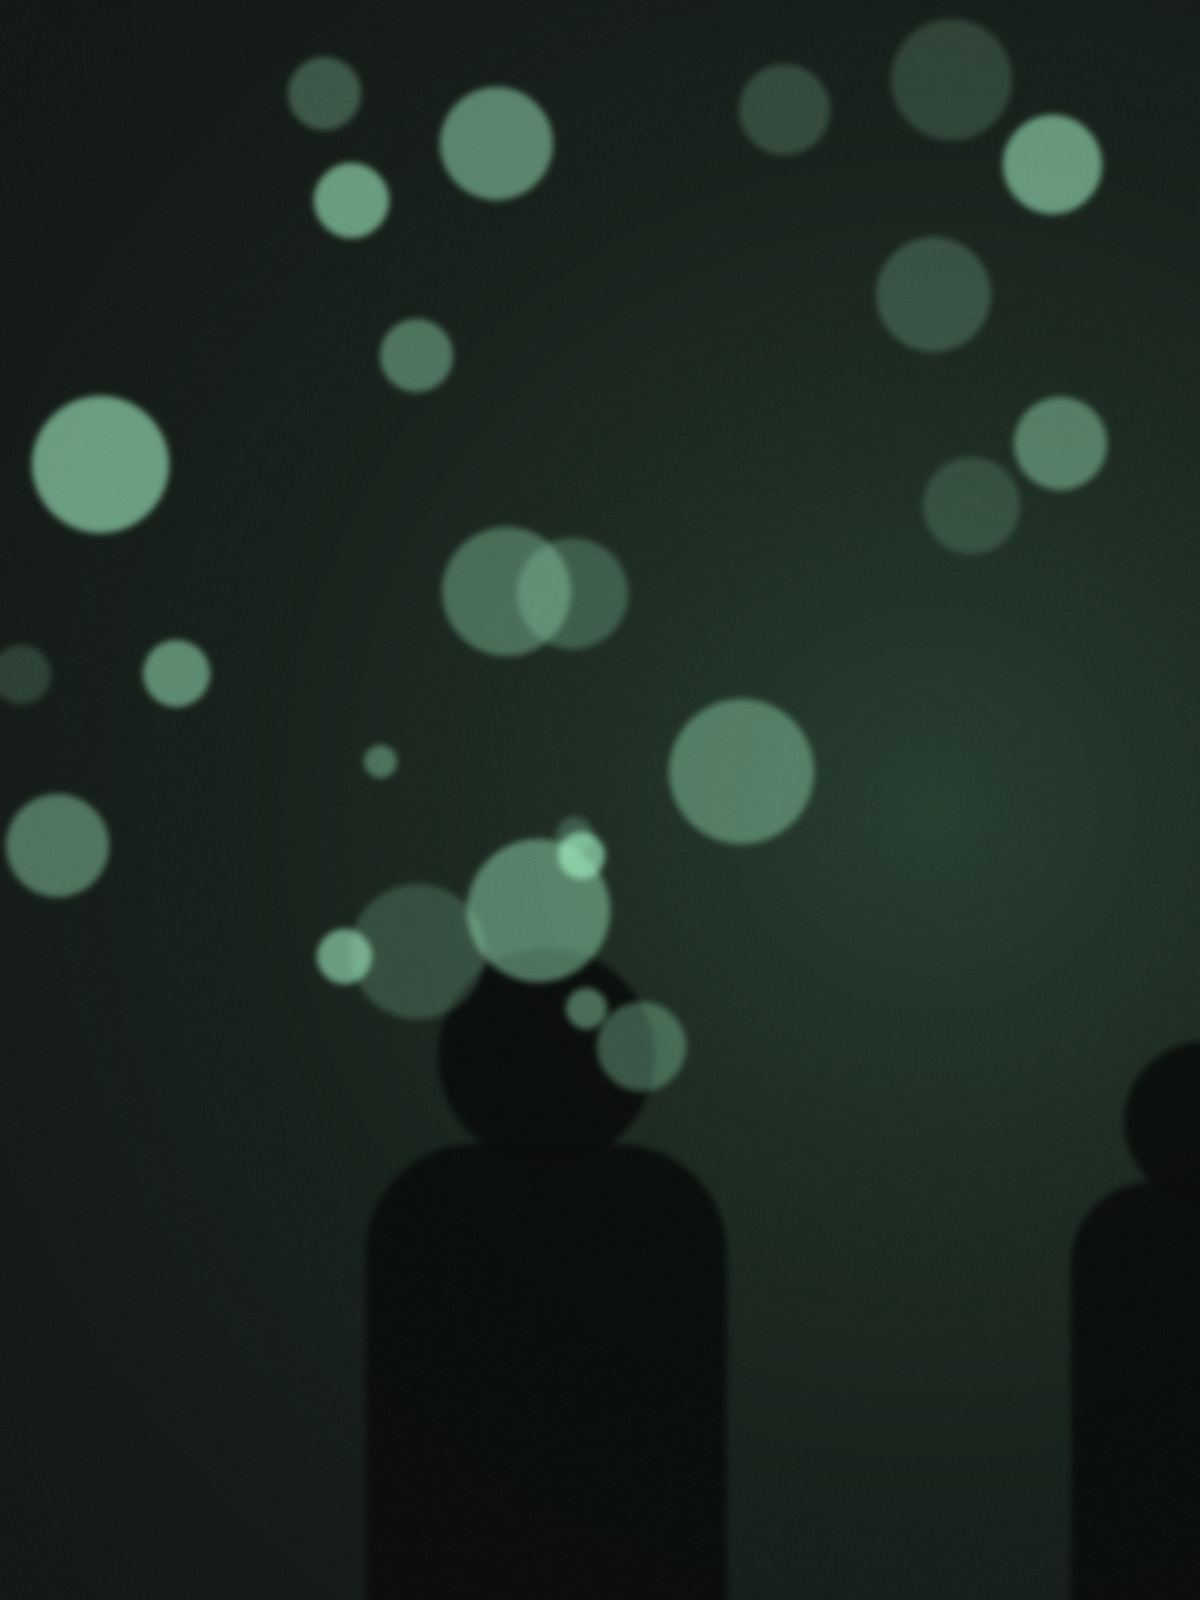
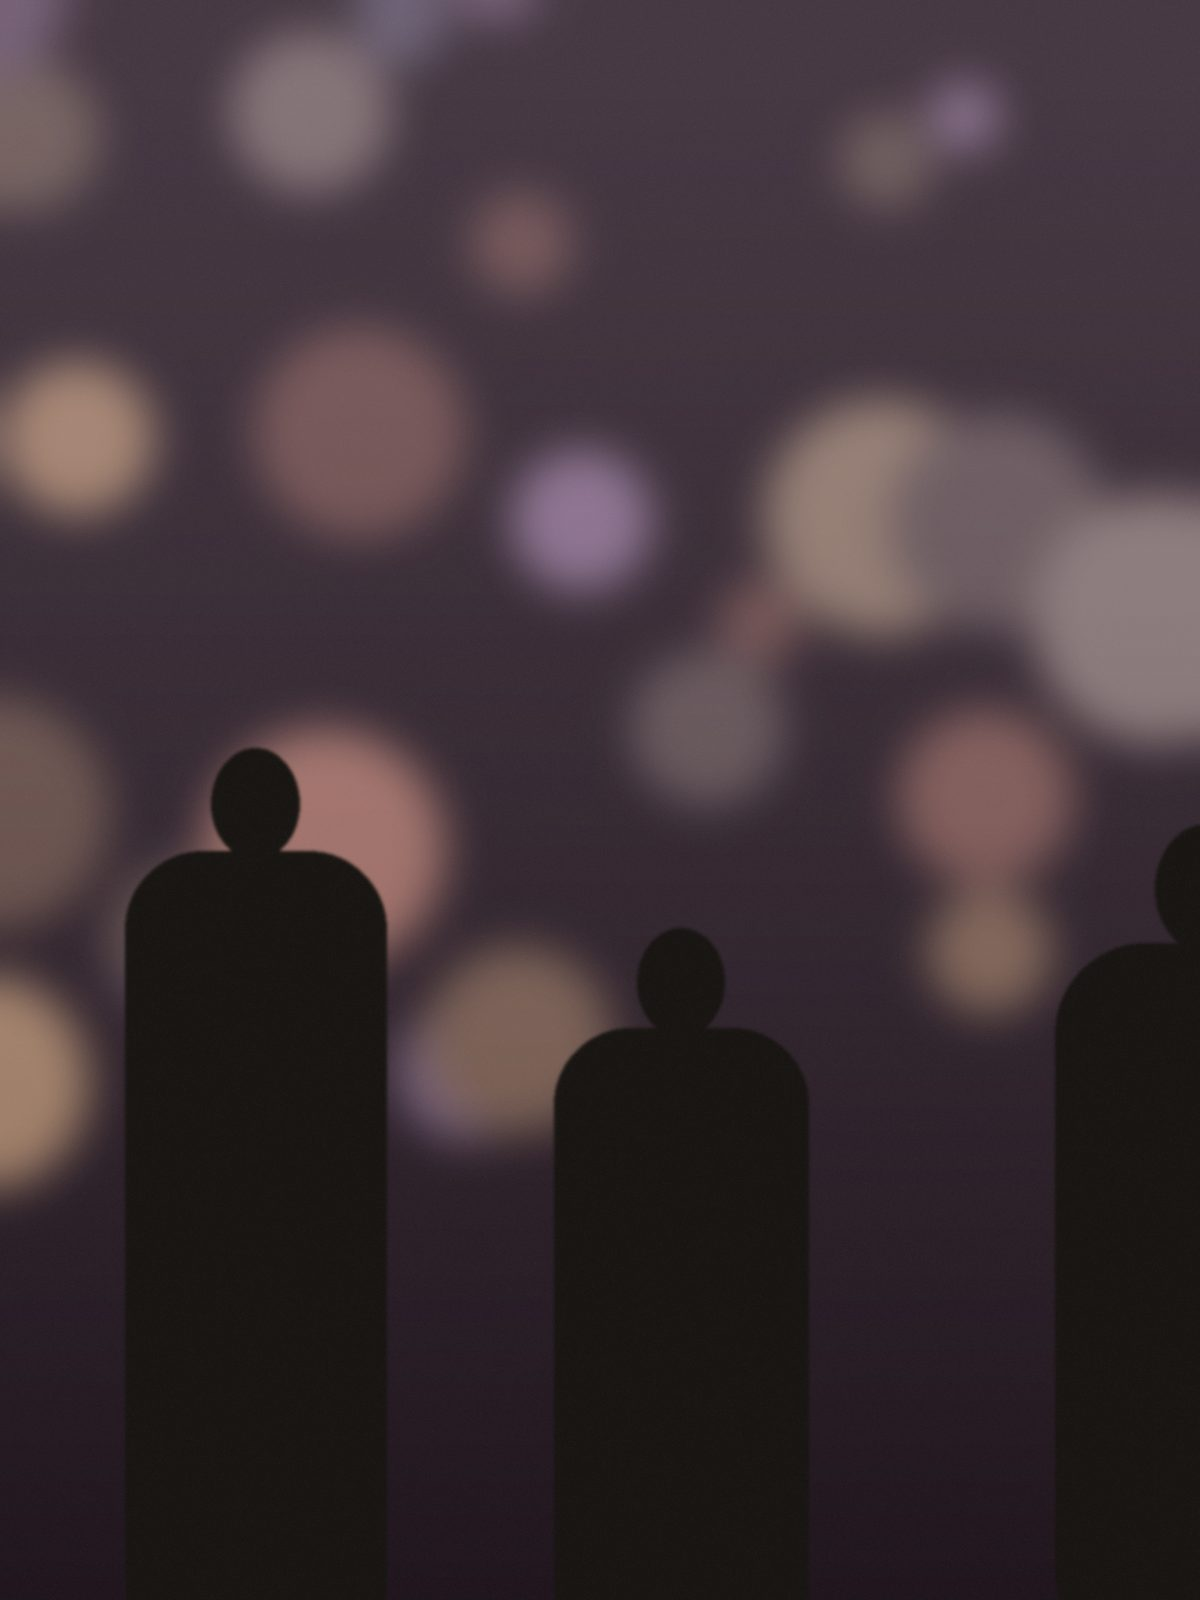
fix(hote) : carte de soiree, accords, et jeu d essai lisible
La bande de couleur de la carte faisait six pixels de haut contre un rayon
de vingt-quatre : elle ne pouvait pas epouser la courbe et se detachait en
pastille flottante au-dessus du cadre. La teinte de la soiree passe en
pastille devant son nom, ou la geometrie ne pose plus de question.

« 1 invités » et « 1 photos » s ecrivaient sans accord.

Les vingt-quatre photographies du jeu d essai etaient trop sombres : dans
une interface elle-meme sombre, elles se confondaient avec leur fond et
l ecran de tri paraissait vide alors qu il les affichait bien. Elles sont
regenerees sur une plage de luminosite etalee, des scenes tamisees aux
scenes au flash, par un script desormais versionne — le depot ne portait
que les binaires, sans le moyen de les reproduire.

diff --git a/apps/web/src/features/host/screens/EventListScreen.tsx b/apps/web/src/features/host/screens/EventListScreen.tsx
@@ -64,11 +64,20 @@ export function EventListScreen() {
                   className="w-full overflow-hidden rounded-3xl border border-white/10
                     bg-white/4 text-left transition active:bg-white/8"
                 >
-                  {/* Bande de couleur : la teinte choisie par l'hote sert de
-                      reperage entre plusieurs soirees. */}
-                  <div className="h-1.5" style={{ background: event.color }} />
                   <div className="px-4 py-3.5">
-                    <p className="text-[15px] font-extrabold tracking-tight">{event.name}</p>
+                    {/* La teinte choisie par l'hote sert de reperage entre
+                        plusieurs soirees. Elle etait posee en bande de six
+                        pixels en haut de la carte : une bande aussi fine ne
+                        peut pas epouser un rayon de vingt-quatre, et se
+                        detachait en pastille flottante au-dessus du cadre. */}
+                    <p className="flex items-center gap-2 text-[15px] font-extrabold tracking-tight">
+                      <span
+                        aria-hidden="true"
+                        className="size-2.5 shrink-0 rounded-full"
+                        style={{ background: event.color }}
+                      />
+                      {event.name}
+                    </p>
                     <p className="mt-1.5 flex items-center gap-2 text-xs text-white/45">
                       {dateFr(event.eventDate)}
                       <span className={`rounded-full px-2 py-0.5 font-bold ${badge.tone}`}>
@@ -77,7 +86,9 @@ export function EventListScreen() {
                     </p>
                     {event._count && (
                       <p className="mt-1 text-xs text-white/35">
-                        {event._count.rolls} invités · {event._count.photos} photos
+                        {event._count.rolls} invité{event._count.rolls > 1 ? 's' : ''}
+                        {' · '}
+                        {event._count.photos} photo{event._count.photos > 1 ? 's' : ''}
                       </p>
                     )}
                   </div>

diff --git a/apps/api/scripts/photos-demo.py b/apps/api/scripts/photos-demo.py
@@ -1,0 +1,126 @@
+#!/usr/bin/env python3
+"""Produit les photographies de demonstration du jeu d'essai.
+
+Ces images alimentent le seed et la repetition generale. Elles sont
+synthetiques et non photographiees : aucun visage reel, aucune licence, et
+le depot ne porte que des fichiers qu'il sait reproduire.
+
+Le premier jeu etait trop sombre. Dans une interface elle-meme sombre, une
+vignette a dominante brune se confond avec son fond : l'ecran de tri
+paraissait vide alors qu'il affichait bien les photographies. La luminosite
+est donc etalee volontairement, des scenes tamisees aux scenes au flash.
+
+Usage : python3 apps/api/scripts/photos-demo.py
+"""
+
+import math
+import random
+from pathlib import Path
+
+from PIL import Image, ImageDraw, ImageFilter
+
+SORTIE = Path(__file__).resolve().parent.parent / 'prisma' / 'photos'
+COMBIEN = 24
+LARGEUR, HAUTEUR = 1200, 1600
+
+# Ambiances d'une soiree. Le troisieme nombre est la luminosite visee, de la
+# piste de danse a peine eclairee au flash direct.
+AMBIANCES = [
+    ('tamise',   (74, 52, 30),   0.42),
+    ('bougies',  (96, 64, 32),   0.55),
+    ('dorée',    (122, 86, 40),  0.68),
+    ('flash',    (168, 150, 128), 0.88),
+    ('piste',    (52, 46, 88),   0.50),
+    ('néons',    (96, 52, 86),   0.62),
+]
+
+LUMIERES = [
+    (255, 226, 170), (255, 208, 140), (255, 240, 214),
+    (198, 214, 255), (255, 176, 138), (236, 200, 255),
+]
+
+
+def melange(a, b, t):
+    return tuple(round(x + (y - x) * t) for x, y in zip(a, b))
+
+
+def fond(image, base, clarte):
+    """Degrade radial : la source lumineuse est hors champ, en haut."""
+    dessin = ImageDraw.Draw(image)
+    haut = melange(base, (255, 255, 255), clarte * 0.45)
+    bas = melange(base, (0, 0, 0), 0.45)
+    for y in range(HAUTEUR):
+        t = (y / HAUTEUR) ** 1.25
+        dessin.line([(0, y), (LARGEUR, y)], fill=melange(haut, bas, t))
+
+
+def bokeh(image, clarte, alea):
+    """Cercles flous : ce que devient une guirlande hors de la mise au point."""
+    calque = Image.new('RGB', (LARGEUR, HAUTEUR), (0, 0, 0))
+    dessin = ImageDraw.Draw(calque)
+    for _ in range(alea.randint(16, 30)):
+        r = alea.randint(26, 130)
+        x = alea.randint(-r, LARGEUR + r)
+        y = alea.randint(-r, int(HAUTEUR * 0.72))
+        ton = alea.choice(LUMIERES)
+        force = alea.uniform(0.35, 1.0) * (0.55 + clarte * 0.6)
+        dessin.ellipse([x - r, y - r, x + r, y + r],
+                       fill=melange((0, 0, 0), ton, min(force, 1.0)))
+    calque = calque.filter(ImageFilter.GaussianBlur(alea.randint(10, 26)))
+    return Image.blend(image, Image.blend(image, calque, 0.62), 0.85)
+
+
+def silhouettes(image, alea):
+    """Deux ou trois personnes de dos, au premier plan, en contre-jour."""
+    dessin = ImageDraw.Draw(image)
+    for _ in range(alea.randint(2, 3)):
+        largeur = alea.randint(230, 400)
+        x = alea.randint(-120, LARGEUR - 120)
+        y = alea.randint(int(HAUTEUR * 0.52), int(HAUTEUR * 0.72))
+        tete = largeur * 0.34
+        # Le corps, en capsule.
+        dessin.rounded_rectangle(
+            [x, y, x + largeur, HAUTEUR + 60],
+            radius=int(largeur * 0.3), fill=(16, 13, 10))
+        # La tete.
+        cx = x + largeur / 2
+        dessin.ellipse([cx - tete / 2, y - tete * 1.15, cx + tete / 2, y + tete * 0.1],
+                       fill=(16, 13, 10))
+    return image.filter(ImageFilter.GaussianBlur(1.6))
+
+
+def grain(image, alea, force=9):
+    """Le grain d'un capteur pousse en basse lumiere."""
+    bruit = Image.effect_noise((LARGEUR, HAUTEUR), force).convert('L')
+    return Image.composite(image, Image.blend(image, bruit.convert('RGB'), 0.16), bruit.point(lambda v: 255 - v))
+
+
+def produire(indice):
+    alea = random.Random(1000 + indice)
+    nom, base, clarte = AMBIANCES[indice % len(AMBIANCES)]
+    # Chaque image s'ecarte un peu de son ambiance : deux photographies d'une
+    # meme soiree ne sont jamais exposees pareil.
+    clarte = min(max(clarte + alea.uniform(-0.09, 0.12), 0.3), 0.95)
+
+    image = Image.new('RGB', (LARGEUR, HAUTEUR))
+    fond(image, base, clarte)
+    image = bokeh(image, clarte, alea)
+    if alea.random() < 0.7:
+        image = silhouettes(image, alea)
+    image = grain(image, alea)
+    # Une legere rotation de teinte evite que les vingt-quatre se ressemblent.
+    return image, nom
+
+
+def main():
+    SORTIE.mkdir(parents=True, exist_ok=True)
+    for i in range(COMBIEN):
+        image, nom = produire(i)
+        chemin = SORTIE / f'{i:02d}.jpg'
+        image.save(chemin, 'JPEG', quality=82, optimize=True)
+        print(f'  {chemin.name}  ambiance {nom}')
+    print(f'{COMBIEN} photographies de demonstration produites dans {SORTIE}')
+
+
+if __name__ == '__main__':
+    main()
